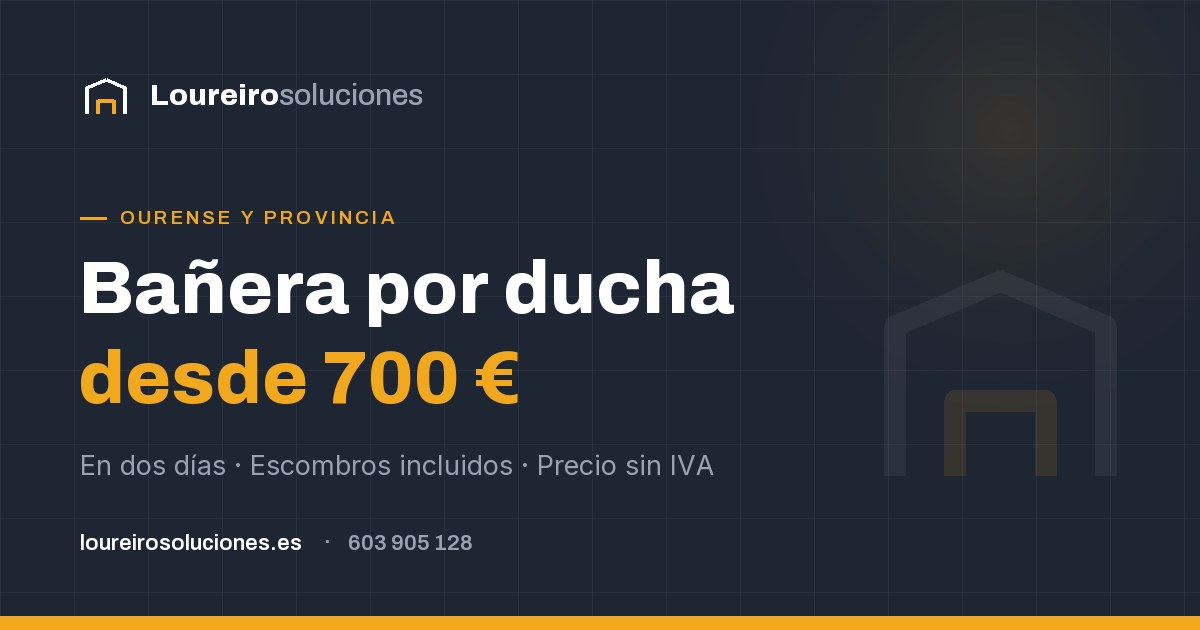
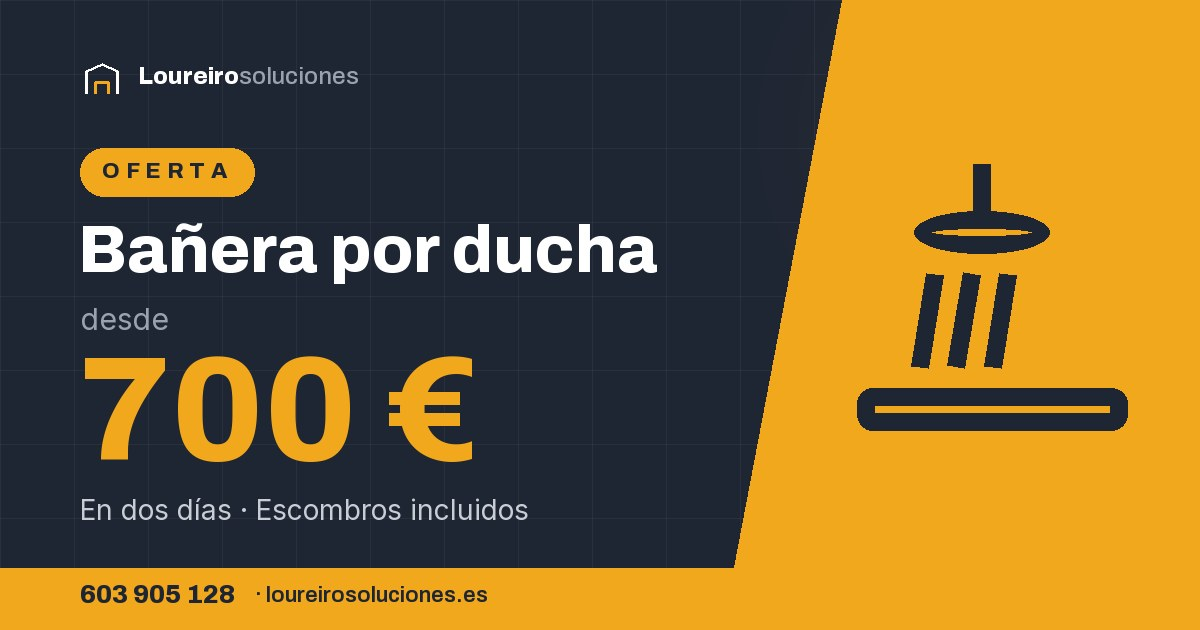
Tarjeta de compartir propia para las ofertas, con el precio enorme
La que había era la plantilla de siempre: un titular sobre fondo oscuro.
En el chat se ve del tamaño de un sello y ahí solo caben dos cosas, el
precio y de qué va.

Las tres ofertas pasan a una tarjeta propia: etiqueta OFERTA, titular,
el precio a 148 px, el teléfono en una franja amarilla abajo y una cuña
amarilla con un icono que se reconoce en miniatura: el split, la ducha y
el rayo.

De paso, og:image:secure_url y twitter:image, que algunos previsualizadores
los miran antes que la etiqueta de Open Graph.

diff --git a/ofertas/index.html b/ofertas/index.html
@@ -14,11 +14,13 @@
 <meta property="og:description" content="Aire frío y calor desde 1.000 €. Bañera por plato de ducha en dos días desde 700 €. Reforma eléctrica integral desde 2.700 €. Ourense y provincia, precios sin IVA.">
 <meta property="og:url" content="https://loureirosoluciones.es/ofertas/">
 <meta property="og:image" content="https://loureirosoluciones.es/assets/img/og/ofertas.jpg">
+<meta property="og:image:secure_url" content="https://loureirosoluciones.es/assets/img/og/ofertas.jpg">
 <meta property="og:image:type" content="image/jpeg">
 <meta property="og:image:width" content="1200">
 <meta property="og:image:height" content="630">
 <meta property="og:image:alt" content="Ofertas de Loureiro Soluciones en Ourense: aire desde 1.000 €, ducha desde 700 € y reforma eléctrica desde 2.700 €.">
 <meta name="twitter:card" content="summary_large_image">
+<meta name="twitter:image" content="https://loureirosoluciones.es/assets/img/og/ofertas.jpg">
 <link rel="icon" href="/assets/img/favicon.svg" type="image/svg+xml">
 <link rel="preload" href="/assets/fonts/inter-var-latin.woff2" as="font" type="font/woff2" crossorigin>
 <link rel="preload" href="/assets/fonts/archivo-var-latin.woff2" as="font" type="font/woff2" crossorigin>

diff --git a/ofertas/reforma-electrica/index.html b/ofertas/reforma-electrica/index.html
@@ -14,11 +14,13 @@
 <meta property="og:description" content="Cuadro nuevo con hasta 6 circuitos, cableado nuevo y todo conforme al REBT, lista para el boletín y para subir la potencia. Desde 2.700 € sin IVA.">
 <meta property="og:url" content="https://loureirosoluciones.es/ofertas/reforma-electrica/">
 <meta property="og:image" content="https://loureirosoluciones.es/assets/img/og/oferta-electrica.jpg">
+<meta property="og:image:secure_url" content="https://loureirosoluciones.es/assets/img/og/oferta-electrica.jpg">
 <meta property="og:image:type" content="image/jpeg">
 <meta property="og:image:width" content="1200">
 <meta property="og:image:height" content="630">
 <meta property="og:image:alt" content="Reforma eléctrica de la vivienda entera desde 2.700 €. Loureiro Soluciones, Ourense.">
 <meta name="twitter:card" content="summary_large_image">
+<meta name="twitter:image" content="https://loureirosoluciones.es/assets/img/og/oferta-electrica.jpg">
 <link rel="icon" href="/assets/img/favicon.svg" type="image/svg+xml">
 <link rel="preload" href="/assets/fonts/inter-var-latin.woff2" as="font" type="font/woff2" crossorigin>
 <link rel="preload" href="/assets/fonts/archivo-var-latin.woff2" as="font" type="font/woff2" crossorigin>

diff --git a/ofertas/banera-por-plato-de-ducha/index.html b/ofertas/banera-por-plato-de-ducha/index.html
@@ -14,11 +14,13 @@
 <meta property="og:description" content="El plato lo eliges tú; nosotros ponemos desagüe, alicatado y remates, y nos llevamos los escombros. Desde 700 € sin IVA en Ourense.">
 <meta property="og:url" content="https://loureirosoluciones.es/ofertas/banera-por-plato-de-ducha/">
 <meta property="og:image" content="https://loureirosoluciones.es/assets/img/og/oferta-ducha.jpg">
+<meta property="og:image:secure_url" content="https://loureirosoluciones.es/assets/img/og/oferta-ducha.jpg">
 <meta property="og:image:type" content="image/jpeg">
 <meta property="og:image:width" content="1200">
 <meta property="og:image:height" content="630">
 <meta property="og:image:alt" content="Cambio de bañera por plato de ducha desde 700 €, en dos días. Loureiro Soluciones, Ourense.">
 <meta name="twitter:card" content="summary_large_image">
+<meta name="twitter:image" content="https://loureirosoluciones.es/assets/img/og/oferta-ducha.jpg">
 <link rel="icon" href="/assets/img/favicon.svg" type="image/svg+xml">
 <link rel="preload" href="/assets/fonts/inter-var-latin.woff2" as="font" type="font/woff2" crossorigin>
 <link rel="preload" href="/assets/fonts/archivo-var-latin.woff2" as="font" type="font/woff2" crossorigin>

diff --git a/ofertas/aire-acondicionado/index.html b/ofertas/aire-acondicionado/index.html
@@ -14,11 +14,13 @@
 <meta property="og:description" content="Máquina e instalación incluidas, desde 1.000 € sin IVA. Si la casa no es grande, con un equipo bien colocado puede sobrar. Ourense y provincia.">
 <meta property="og:url" content="https://loureirosoluciones.es/ofertas/aire-acondicionado/">
 <meta property="og:image" content="https://loureirosoluciones.es/assets/img/og/oferta-aire.jpg">
+<meta property="og:image:secure_url" content="https://loureirosoluciones.es/assets/img/og/oferta-aire.jpg">
 <meta property="og:image:type" content="image/jpeg">
 <meta property="og:image:width" content="1200">
 <meta property="og:image:height" content="630">
 <meta property="og:image:alt" content="Aire acondicionado frío y calor desde 1.000 € en Ourense. Loureiro Soluciones, Ourense.">
 <meta name="twitter:card" content="summary_large_image">
+<meta name="twitter:image" content="https://loureirosoluciones.es/assets/img/og/oferta-aire.jpg">
 <link rel="icon" href="/assets/img/favicon.svg" type="image/svg+xml">
 <link rel="preload" href="/assets/fonts/inter-var-latin.woff2" as="font" type="font/woff2" crossorigin>
 <link rel="preload" href="/assets/fonts/archivo-var-latin.woff2" as="font" type="font/woff2" crossorigin>

diff --git a/scripts/generar-og.py b/scripts/generar-og.py
@@ -43,13 +43,7 @@ TARJETAS = [
     # en el titular, que es lo que se ve en la miniatura del chat.
     ("og/ofertas.jpg", "Tiramos la casa", "por la ventana.",
      "Aire 1.000 € · Ducha 700 € · Eléctrica 2.700 € · Sin IVA"),
-    # Una por oferta: al compartirlas, cada enlace enseña la suya.
-    ("og/oferta-aire.jpg", "Aire frío y calor", "desde 1.000 €",
-     "Máquina e instalación · Ourense · Precio sin IVA"),
-    ("og/oferta-ducha.jpg", "Bañera por ducha", "desde 700 €",
-     "En dos días · Escombros incluidos · Precio sin IVA"),
-    ("og/oferta-electrica.jpg", "Reforma eléctrica", "desde 2.700 €",
-     "Cuadro y cableado nuevos · Lista para el boletín"),
+
     ("og/reformas-integrales-ourense.jpg", "Reformas integrales", "en Ourense",
      "Demolición, instalaciones, acabados y limpieza final"),
     ("og/electricista-ourense.jpg", "Electricista", "en Ourense",
@@ -64,6 +58,17 @@ TARJETAS = [
      "Interior, exterior, alisado de gotelé y antihumedad"),
     ("og/limpieza-fin-de-obra-ourense.jpg", "Limpieza de fin de obra", "en Ourense",
      "Pisos y locales listos para entrar"),
+]
+
+# Las ofertas van con la otra tarjeta: fichero, titular, precio, el renglón de
+# debajo y qué icono se dibuja en la cuña.
+OFERTAS = [
+    ("og/oferta-aire.jpg", "Aire frío y calor", "1.000 €",
+     "Máquina e instalación · Ourense", "aire"),
+    ("og/oferta-ducha.jpg", "Bañera por ducha", "700 €",
+     "En dos días · Escombros incluidos", "ducha"),
+    ("og/oferta-electrica.jpg", "Reforma eléctrica", "2.700 €",
+     "Cuadro y cableado nuevos · Boletín", "rayo"),
 ]
 
 
@@ -151,6 +156,77 @@ def tarjeta(linea1: str, linea2: str, pie: str, tipos: dict) -> Image.Image:
     return im
 
 
+def icono(d, clase, cx, cy, lado, color):
+    """Un dibujo simple, de trazo grueso, que se reconozca en miniatura."""
+    u = lado / 100.0
+    g = max(3, round(7 * u))
+
+    def r(x0, y0, x1, y1, radio=0):
+        caja = [cx + x0 * u, cy + y0 * u, cx + x1 * u, cy + y1 * u]
+        if radio:
+            d.rounded_rectangle(caja, radius=radio * u, outline=color, width=g)
+        else:
+            d.rectangle(caja, outline=color, width=g)
+
+    def l(x0, y0, x1, y1):
+        d.line([cx + x0 * u, cy + y0 * u, cx + x1 * u, cy + y1 * u], fill=color, width=g)
+
+    if clase == "aire":
+        # Split de pared y el aire saliendo.
+        r(-50, -46, 50, -6, 10)
+        l(-36, -20, 36, -20)
+        for i, x in enumerate((-30, 0, 30)):
+            l(x, 6, x - 10, 30)
+            l(x - 10, 30, x, 52)
+    elif clase == "ducha":
+        # Alcachofa, chorro y plato.
+        l(-4, -52, -4, -30)
+        d.ellipse([cx - 30 * u, cy - 34 * u, cx + 22 * u, cy - 18 * u], outline=color, width=g)
+        for x in (-22, -8, 6):
+            l(x, -10, x - 6, 26)
+        r(-52, 34, 52, 50, 6)
+    else:
+        # Rayo.
+        d.polygon([(cx + 14 * u, cy - 54 * u), (cx - 34 * u, cy + 6 * u),
+                   (cx - 4 * u, cy + 6 * u), (cx - 16 * u, cy + 54 * u),
+                   (cx + 34 * u, cy - 8 * u), (cx + 2 * u, cy - 8 * u)], fill=color)
+
+
+def tarjeta_oferta(titular, precio, pie, clase, tipos):
+    """La que se comparte: precio enorme, cuña amarilla y teléfono."""
+    im = fondo()
+    d = ImageDraw.Draw(im, "RGBA")
+
+    # Cuña amarilla a la derecha, con el icono dentro.
+    d.polygon([(842, 0), (ANCHO, 0), (ANCHO, ALTO), (722, ALTO)], fill=AMARILLO)
+    icono(d, clase, 992, 300, 260, GRAFITO)
+
+    # Marca arriba.
+    dibujar_marca(im, 80, 60, 44, BLANCO, AMARILLO)
+    d.text((138, 62), "Loureiro", font=tipos["marca_of"], fill=BLANCO)
+    ancho_marca = d.textlength("Loureiro", font=tipos["marca_of"])
+    d.text((138 + ancho_marca, 62), "soluciones", font=tipos["marca_of_sub"], fill=APAGADO)
+
+    # Etiqueta de oferta.
+    texto = "OFERTA"
+    ancho_texto = d.textlength(texto, font=tipos["pill"]) + 6 * 5.5
+    d.rounded_rectangle([80, 148, 80 + ancho_texto + 44, 196], radius=24, fill=AMARILLO)
+    texto_espaciado(d, (102, 158), texto, tipos["pill"], GRAFITO, 5.5)
+
+    d.text((78, 214), titular, font=tipos["titular_of"], fill=BLANCO)
+    d.text((80, 300), "desde", font=tipos["desde"], fill=APAGADO)
+    d.text((78, 330), precio, font=tipos["precio"], fill=AMARILLO)
+    d.text((80, 492), pie, font=tipos["pie_of"], fill=(201, 205, 212))
+
+    # Franja de abajo con el teléfono, en amarillo para que se lea de lejos.
+    d.rectangle([0, ALTO - 62, ANCHO, ALTO], fill=AMARILLO)
+    d.text((80, ALTO - 50), "603 905 128", font=tipos["tel"], fill=GRAFITO)
+    ancho_tel = d.textlength("603 905 128", font=tipos["tel"])
+    d.text((80 + ancho_tel + 20, ALTO - 48), "· loureirosoluciones.es",
+           font=tipos["tel_sub"], fill=GRAFITO)
+    return im
+
+
 def main():
     with tempfile.TemporaryDirectory() as tmp:
         archivo800 = estatica("archivo-var-latin.woff2", 800, tmp)
@@ -164,11 +240,28 @@ def main():
             "titular": ImageFont.truetype(archivo800, 74),
             "pie": ImageFont.truetype(inter400, 27),
             "web": ImageFont.truetype(archivo600, 22),
+            # Las de la tarjeta de oferta.
+            "marca_of": ImageFont.truetype(archivo800, 24),
+            "marca_of_sub": ImageFont.truetype(archivo500, 24),
+            "pill": ImageFont.truetype(archivo800, 22),
+            "titular_of": ImageFont.truetype(archivo800, 66),
+            "desde": ImageFont.truetype(inter400, 30),
+            "precio": ImageFont.truetype(archivo800, 148),
+            "pie_of": ImageFont.truetype(inter400, 28),
+            "tel": ImageFont.truetype(archivo800, 26),
+            "tel_sub": ImageFont.truetype(archivo600, 22),
         }
         for nombre, l1, l2, pie in TARJETAS:
             destino = os.path.join(RAIZ, "assets", "img", *nombre.split("/"))
             os.makedirs(os.path.dirname(destino), exist_ok=True)
             im = tarjeta(l1, l2, pie, tipos)
+            im.save(destino, "JPEG", quality=88, optimize=True, progressive=True)
+            print("  %-46s %5.0f KB" % (nombre, os.path.getsize(destino) / 1024))
+
+        for nombre, titular, precio, pie, clase in OFERTAS:
+            destino = os.path.join(RAIZ, "assets", "img", *nombre.split("/"))
+            os.makedirs(os.path.dirname(destino), exist_ok=True)
+            im = tarjeta_oferta(titular, precio, pie, clase, tipos)
             im.save(destino, "JPEG", quality=88, optimize=True, progressive=True)
             print("  %-46s %5.0f KB" % (nombre, os.path.getsize(destino) / 1024))
     print("Tarjetas listas.")
